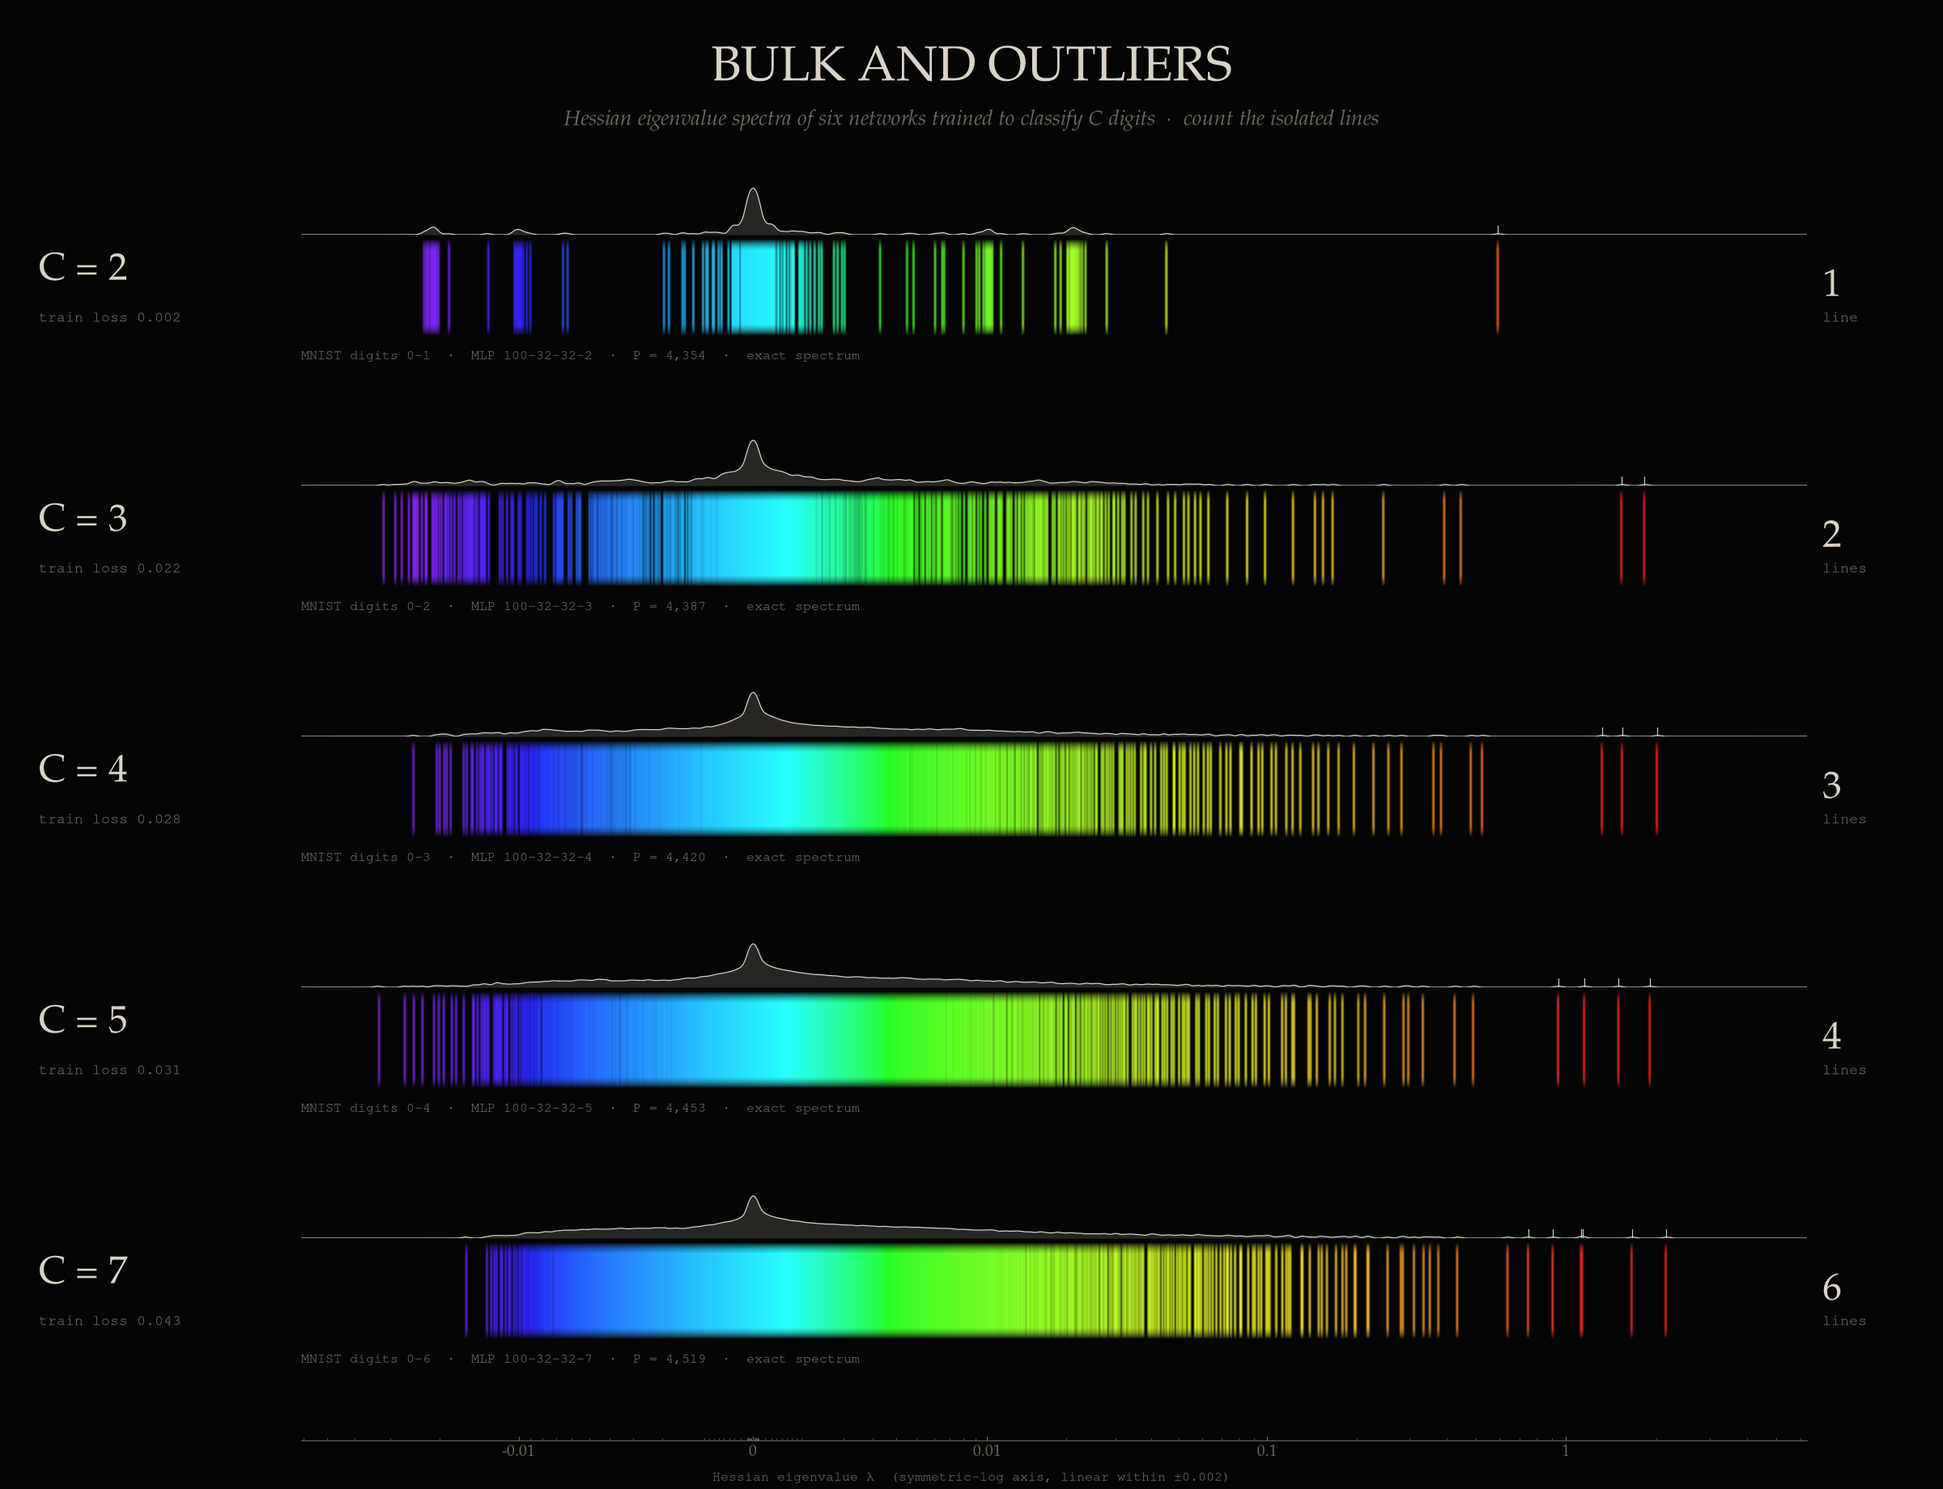
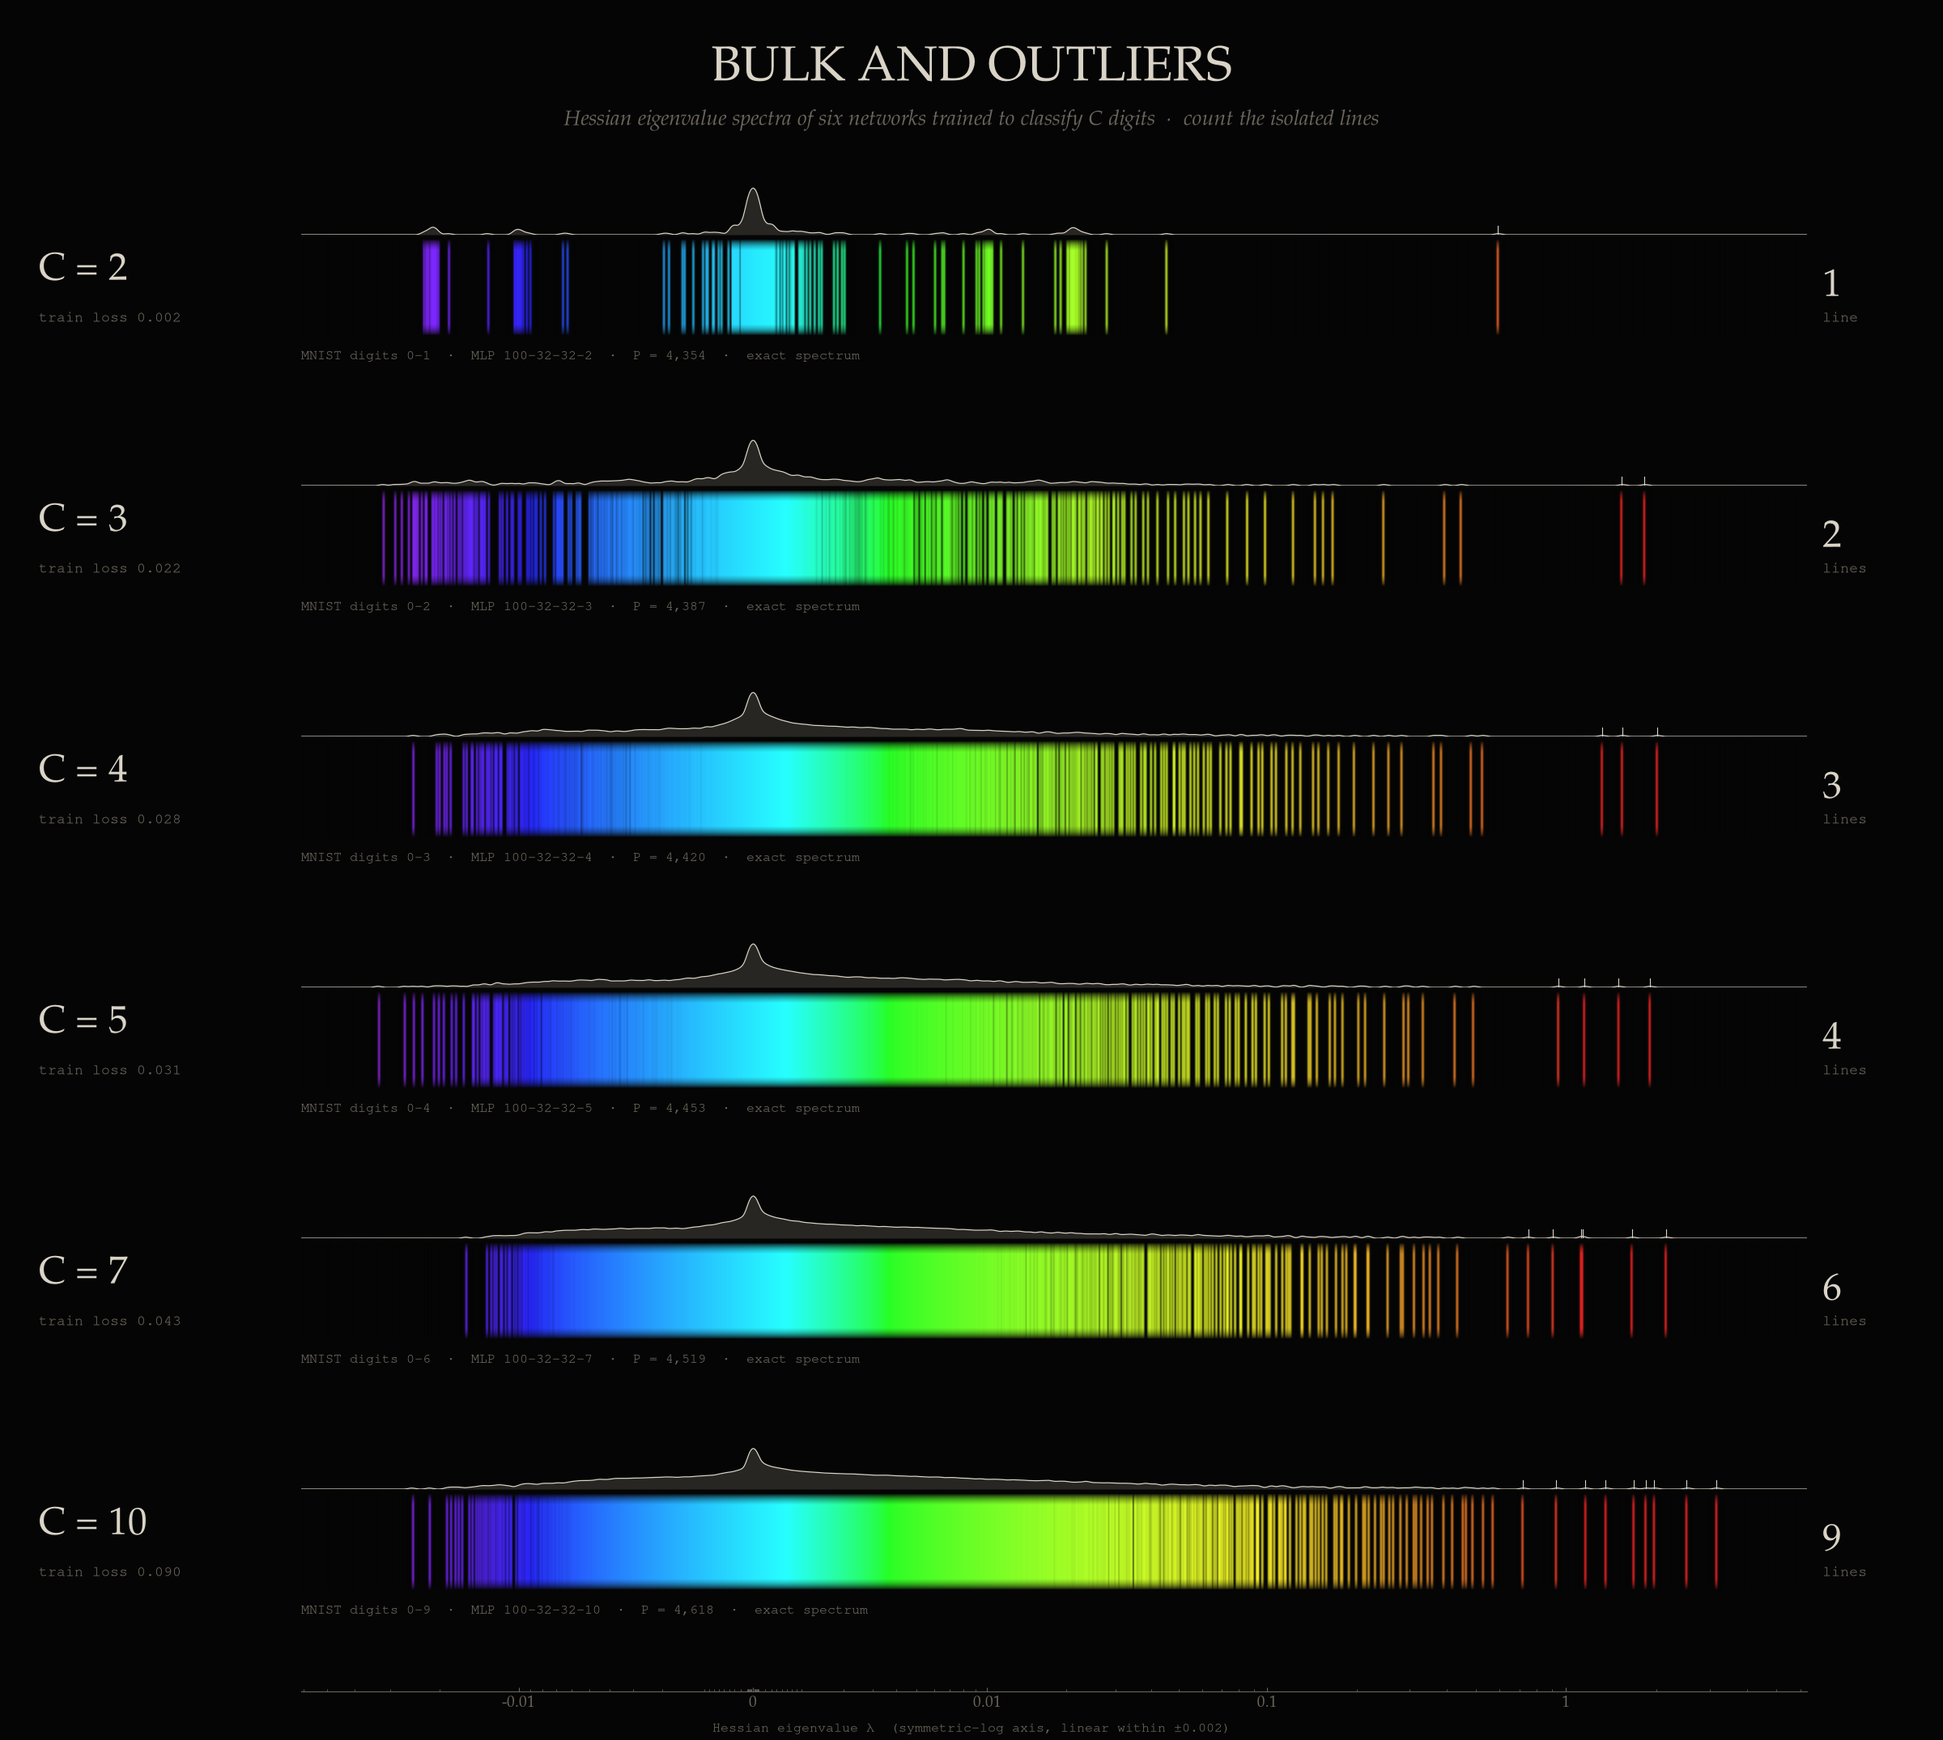
art/hessian-spectrum: C=10 plates (emission/absorption/silver/negative), barcode+gel, class-count ladder, spectrograph stills incl. Spectral split + palettes variants

diff --git a/art/hessian-spectrum/render_film.py b/art/hessian-spectrum/render_film.py
@@ -10,7 +10,7 @@ python render_film.py --stills --film
 import argparse, glob, os, subprocess
 import numpy as np
 from PIL import Image, ImageDraw, ImageFont
-from render_common import slog, exposure_profile, log_density, wavelength_rgb, hexrgb, GAL, CACHE
+from render_common import n_structural, slog, exposure_profile, log_density, wavelength_rgb, hexrgb, GAL, CACHE
 import sys
 sys.path.insert(0, '/home/fzeng/ml/research/art/color-research')
 
@@ -18,6 +18,7 @@ ap = argparse.ArgumentParser()
 ap.add_argument('--run', default='film_mlps_C10_pc200')
 ap.add_argument('--stills', action='store_true')
 ap.add_argument('--film', action='store_true')
+ap.add_argument('--styles', default='hue,silver,magma,paper,split,aurora_ember,cyanotype_vandyke')
 ap.add_argument('--frames', type=int, default=720)
 args = ap.parse_args()
 
@@ -26,7 +27,8 @@ ck = [np.load(f) for f in fs]
 steps = np.array([int(d['step']) for d in ck])
 S = np.stack([np.sort(slog(d['H_eig'])) for d in ck])        # (T, P) sorted symlog eigenvalues
 loss = np.array([float(d['loss']) for d in ck]); acc = np.array([float(d['acc']) for d in ck])
-count = np.array([int(d['count_H'][0]) for d in ck])
+count = np.array([n_structural(d) for d in ck])          # eigvecs in span{d_c}
+gapcount = np.array([int(d['count_H'][0]) for d in ck])
 u = np.log10(steps + 1)
 x0, x1 = np.floor(S.min() * 2) / 2 - 0.2, np.ceil(S.max() * 2) / 2 + 0.2
 print('checkpoints', len(steps), 'x range', x0, x1, 'counts', count)
@@ -46,13 +48,27 @@ def islog_(s, tau=1e-4):
     return np.sign(s) * tau * (10 ** np.abs(s) - 1)
 
 
-def expo_row(s, W, sigma=1.1, d0=0.7):
-    return exposure_profile(islog_(s), x0, x1, W, sigma_px=sigma, d0=d0)[0]
+DREF = 60.0   # reference line density for the log texture term (declared tone curve)
+
+
+def tone(D, d0=0.7):
+    """Declared tone curve: 60% photographic exposure (a lone eigenvalue reaches ~0.46) + 40% log density
+    (keeps texture inside the bulk instead of saturating it)."""
+    return np.clip(0.6 * (1 - np.exp(-D / d0)) + 0.4 * np.log1p(D) / np.log1p(DREF), 0, 1)
+
+
+def dens_row(s, W, sigma=1.1):
+    return exposure_profile(islog_(s), x0, x1, W, sigma_px=sigma)[1]
+
+
+def expo_row(s, W, sigma=1.1):
+    return tone(dens_row(s, W, sigma))
 
 
 def waterfall(W, Hrows):
     uu = np.linspace(u[0], u[-1], Hrows)
-    return np.stack([expo_row(spectrum_at(v)[0], W) for v in uu]), uu
+    D = np.stack([dens_row(spectrum_at(v)[0], W) for v in uu])
+    return tone(D), D, uu
 
 
 def colorize(E, style, W):
@@ -67,27 +83,23 @@ def colorize(E, style, W):
         return cm.magma(E ** 0.9)[..., :3]
     if style == 'paper':
         return hexrgb('#f3eee3') * (1 - E[..., None]) + hexrgb('#1c1a17') * E[..., None]
-    if style == 'split':
-        # Sohl-Dickstein Spectral split at lambda = 0: negative eigenvalues on the purple half, positive on red.
+    if style in ('split', 'aurora_ember', 'cyanotype_vandyke'):
+        # Signed field: sign(lambda) * log line density; per-side rank normalisation (palettes.render_split,
+        # Sohl-Dickstein convention). Empty spectrum = |field| 0 = the dark ends of both halves; the densest bulk
+        # glows pale. Negative eigenvalues take the purple/cool half, positive the red/warm half.
         import palettes as P
-        from matplotlib.colors import LinearSegmentedColormap
-        import matplotlib.cm as cm
-        sgn = np.where(xs < 0, -1.0, 1.0)[None]
-        M = sgn * E
-        # dark seam colours where exposure is low, pale where the plate saturates; no rank-normalisation needed
-        sp = cm.Spectral
-        neg = sp(0.5 + 0.5 * (1 - E)) if False else None
-        t = np.where(M < 0, 1.0 - 0.5 * E, 0.5 * E)          # 0 = deep red end, 1 = purple end, 0.5 = pale centre
-        t = np.where(M < 0, 0.5 + 0.5 * (1 - E), 0.5 - 0.5 * (1 - E))
-        rgb = sp(t)[..., :3]
-        return rgb * (0.15 + 0.85 * E[..., None] ** 0.6)
+        M = np.where(xs[None] < 0, -1.0, 1.0) * np.log1p(D)
+        M = np.where(D < 1e-3, 0.0, M)
+        pairing = 'sd_spectral' if style == 'split' else style
+        rgb = P.render_split(M, pairing, near_boundary='small')
+        return rgb * (0.08 + 0.92 * np.clip(D / 0.05, 0, 1)[..., None])  # fade to black where no eigenvalue falls
     raise ValueError(style)
 
 
 if args.stills:
     W, Hr = 2400, 1600
-    E, uu = waterfall(W, Hr)
-    for style in ['hue', 'silver', 'magma', 'paper', 'split']:
+    E, D, uu = waterfall(W, Hr)
+    for style in args.styles.split(','):
         rgb = colorize(E, style, W)
         img = Image.fromarray((np.clip(rgb, 0, 1) * 255).astype(np.uint8))
         ground = (243, 238, 227) if style == 'paper' else (6, 6, 6)
@@ -126,7 +138,7 @@ if args.film:
     L, W = 120, 1680
     trace_y, strip_y, strip_h = 120, 250, 130
     wf_y, wf_h = 470, 520
-    E, uu = waterfall(W, wf_h)
+    E, D, uu = waterfall(W, wf_h)
     wf = (np.clip(colorize(E, 'hue', W), 0, 1) * 255).astype(np.uint8)
     xs = np.linspace(x0, x1, W)
     hue = wavelength_rgb(np.interp(xs, [x0, x1], [395, 690])) * 0.85 + 0.15
@@ -163,7 +175,7 @@ if args.film:
                 fill=(130, 124, 112), anchor='rt')
         li = int(np.clip(np.searchsorted(u, v), 0, len(u) - 1))
         dr.text((L, FH - 60), f'step {stepv:7.0f}    train loss {np.interp(v, u, loss):.3f}    '
-                f'lines above widest gap: {count[jn]}', font=fM, fill=(200, 194, 182))
+                f'lines (eigvecs in class-mean span): {count[jn]}', font=fM, fill=(200, 194, 182))
         dr.text((L + W, FH - 60), 'time ↓  symlog λ →', font=fM, fill=(130, 124, 112), anchor='rt')
         im.save(os.path.join(tmp, f'f{fi:04d}.png'))
     mp4 = f'{GAL}/spectrograph_film.mp4'

diff --git a/art/hessian-spectrum/render_ladder.py b/art/hessian-spectrum/render_ladder.py
@@ -1,0 +1,89 @@
+"""Class-count ladder: the top of every spectrum as rungs, both measurement routes side by side.
+
+Each column pair = one class count C (left: exact spectrum of the small MLP, right: Lanczos Ritz values of the
+784-128-128 MLP). Each rung = one of the top 2C+6 eigenvalues at its symlog height. Ink of a rung is a measured
+mix: the fraction ov = ||proj of its eigenvector onto span{class-mean gradients}||^2 goes to the red ink, 1-ov to
+the blue ink (two-spot risograph idiom, multiplicative overprint; misregistration is aesthetic).
+
+python render_ladder.py            -> gallery/ladder_riso.png, gallery/ladder_night.png
+"""
+import numpy as np
+import matplotlib
+matplotlib.use('Agg')
+import matplotlib.pyplot as plt
+from render_common import SERIES, slog, islog, load_exact, load_lanczos, n_structural, GAL, set_tau
+
+set_tau(2e-3)
+cols = []
+for C in SERIES:
+    for src, L, key in (('exact', load_exact, 'H_eig'), ('lanczos', load_lanczos, 'H_ritz')):
+        d = L(C)
+        lam = np.sort(d[key])[::-1]
+        n = min(2 * C + 6, len(d['ov_dc']))
+        cols.append(dict(C=C, src=src, lam=lam[:n], ov=np.asarray(d['ov_dc'])[:n], k=n_structural(d)))
+
+STY = {
+    'riso': dict(paper='#f2ede1', red='#ff4f5e', blue='#1f5fbf', ink='#2b2a33', faint='#8c8778', mis=(0.05, 0.004)),
+    'night': dict(paper='#07080c', red='#ff6a4d', blue='#5aa9ff', ink='#e6e1d4', faint='#6f6a60', mis=(0, 0)),
+}
+
+
+def hexrgb(h):
+    return np.array([int(h.lstrip('#')[i:i + 2], 16) / 255 for i in (0, 2, 4)])
+
+
+for name, st in STY.items():
+    plt.rcParams.update({'font.family': 'P052'})
+    fig = plt.figure(figsize=(24, 15), dpi=100, facecolor=st['paper'])
+    ax = fig.add_axes([0.08, 0.19, 0.84, 0.66], facecolor=st['paper'])
+    ylo, yhi = slog(0.03), slog(12)
+    xpos = {}
+    for i, c in enumerate(cols):
+        gx = SERIES.index(c['C']) * 3.0 + (0 if c['src'] == 'exact' else 1.05)
+        xpos.setdefault(c['C'], []).append(gx)
+        for j, (l, ov) in enumerate(zip(c['lam'], c['ov'])):
+            if l <= 0.03:
+                continue
+            y = slog(l)
+            out = j < c['k']
+            w = 0.9 if out else 0.55
+            lw = 5.5 if out else 2.2
+            x_a, x_b = gx - w / 2, gx + w / 2
+            if name == 'riso':
+                # two inks, each at its coverage, multiply-overprinted
+                dx, dy = st['mis']
+                ax.plot([x_a, x_b], [y, y], color=st['blue'], lw=lw, alpha=float(np.clip(1 - ov, 0.08, 1)) * 0.85,
+                        solid_capstyle='butt')
+                ax.plot([x_a + dx, x_b + dx], [y + dy, y + dy], color=st['red'],
+                        lw=lw, alpha=float(np.clip(ov, 0.0, 1)) * 0.9, solid_capstyle='butt')
+            else:
+                col = ov * hexrgb(st['red']) + (1 - ov) * hexrgb(st['blue'])
+                ax.plot([x_a, x_b], [y, y], color=col, lw=lw, alpha=0.95 if out else 0.55, solid_capstyle='butt')
+    for C in SERIES:
+        xm = np.mean(xpos[C])
+        k_ex = [c['k'] for c in cols if c['C'] == C]
+        ax.text(xm, slog(0.021), f'C = {C}', ha='center', va='top', fontsize=30, color=st['ink'])
+        ax.text(xm, slog(0.0125), f'{k_ex[0]}  ·  {k_ex[1]}', ha='center', va='top', fontsize=20, color=st['faint'],
+                family='Nimbus Mono PS')
+        for gx, lab in zip(xpos[C], ('exact', 'Lanczos')):
+            ax.text(gx, slog(0.035), lab, ha='center', va='top', fontsize=11, color=st['faint'],
+                    family='Nimbus Mono PS', rotation=0)
+    tk = [0.03, 0.1, 0.3, 1, 3, 10]
+    ax.set_yticks(slog(np.array(tk)))
+    ax.set_yticklabels([f'{t:g}' for t in tk], fontsize=16, color=st['ink'], family='Nimbus Mono PS')
+    ax.tick_params(axis='y', colors=st['faint'], length=8)
+    ax.set_xticks([])
+    for sp in ['top', 'right', 'bottom']:
+        ax.spines[sp].set_visible(False)
+    ax.spines['left'].set_color(st['faint'])
+    ax.set_xlim(-1.2, 3.0 * len(SERIES) - 0.8); ax.set_ylim(ylo - 0.05, yhi)
+    ax.set_ylabel('Hessian eigenvalue λ  (symlog, τ = 2e-3)', fontsize=15, color=st['faint'], family='Nimbus Mono PS')
+    fig.text(0.08, 0.95, 'The class-count ladder', fontsize=46, color=st['ink'], va='top')
+    fig.text(0.08, 0.895, 'Top Hessian eigenvalues of MNIST MLPs trained on C digit classes.  Wide rungs: eigenvectors '
+             'lying in the span of the class-mean gradients.  There are C − 1 of them, not C.',
+             fontsize=18, color=st['faint'], va='top', style='italic')
+    fig.text(0.08, 0.02, 'rung ink = measured mix: red ∝ |proj of eigenvector v onto span{d_c}|², blue ∝ the rest;  numbers under C: wide rungs '
+             '(exact · Lanczos);  top 2C+6 eigenvalues above 0.03 shown', fontsize=13, color=st['faint'],
+             family='Nimbus Mono PS')
+    out = f'{GAL}/ladder_{name}.png'
+    fig.savefig(out, dpi=100, facecolor=st['paper']); plt.close(fig); print('wrote', out)

diff --git a/art/hessian-spectrum/render_barcode.py b/art/hessian-spectrum/render_barcode.py
@@ -10,7 +10,7 @@ import numpy as np
 import matplotlib
 matplotlib.use('Agg')
 import matplotlib.pyplot as plt
-from render_common import SERIES, slog, load_exact, exposure_profile, hexrgb, GAL
+from render_common import SERIES, slog, load_exact, exposure_profile, hexrgb, GAL, n_structural
 
 specs = [load_exact(C) for C in SERIES]
 # barcodes show only the positive side above lambda >= 1e-4 (bulk block starts there); declared crop
@@ -26,7 +26,7 @@ def barcode(style):
     fig.text(0.5, 1 - 60 / Ht, 'Hessian spectra, barcoded', ha='center', va='top', fontsize=34, color=ink,
              family='P052')
     for i, s in enumerate(specs):
-        C, k = int(s['C']), int(s['count_H'][0])
+        C, k = int(s['C']), n_structural(s)
         y0 = 1 - (160 + (i + 1) * rowh) / Ht
         ax = fig.add_axes([0.08, y0 + 70 / Ht, 0.84, (rowh - 110) / Ht], facecolor=paper)
         lam = s['H_eig']; lam = lam[slog(lam) > x0]
@@ -35,6 +35,9 @@ def barcode(style):
         rgb = hexrgb(paper) * (1 - bars[None, :, None]) + hexrgb(ink) * bars[None, :, None]
         ax.imshow(np.repeat(rgb, 2, 0), extent=(x0, x1, 0, 1), aspect='auto', interpolation='nearest')
         ax.set_xlim(x0, x1); ax.axis('off')
+        # outliers (eigenvectors in span of class-mean gradients) drop below the code like EAN guard bars
+        for l in np.sort(s['H_eig'])[::-1][:k]:
+            ax.plot([slog(l)] * 2, [-0.12, 0.02], color=ink, lw=1.6, clip_on=False, solid_capstyle='butt')
         # guard bars at both ends, EAN-style
         for gx in (x0 + 0.01, x0 + 0.03, x1 - 0.03, x1 - 0.01):
             ax.plot([gx, gx], [-0.12, 1], color=ink, lw=2.2, clip_on=False)
@@ -43,7 +46,7 @@ def barcode(style):
                  family='Nimbus Mono PS')
         fig.text(0.93, y0 + 40 / Ht, f'C={C} · {k} outlier{"s" if k != 1 else ""}', ha='right', va='center',
                  fontsize=12, color=ink, family='Nimbus Mono PS', alpha=0.7)
-    fig.text(0.08, 30 / Ht, f'bars = exact eigenvalues λ ≥ 3e-4, symlog position (τ=1e-4); digits: C, outlier count, P',
+    fig.text(0.08, 30 / Ht, f'bars = exact eigenvalues λ ≥ 3e-4 (long bars: outliers), symlog position (τ=1e-4); digits: C, outlier count (eigvecs in span of class-mean gradients), P',
              fontsize=12, color=ink, family='Nimbus Mono PS', alpha=0.7)
     out = f'{GAL}/barcode_{style}.png'
     fig.savefig(out, dpi=100, facecolor=paper); plt.close(fig); print('wrote', out)
@@ -63,7 +66,8 @@ def gel():
     lo, hi = slog(-2e-2), max(slog(s['H_eig'].max()) for s in specs) + 0.2
     band = hexrgb('#ffb347'); core = hexrgb('#fff6e0')
     for i, s in enumerate(specs):
-        expo, _ = exposure_profile(s['H_eig'], lo, hi, Hpx, sigma_px=2.2, d0=0.9)
+        _, dn = exposure_profile(s['H_eig'], lo, hi, Hpx, sigma_px=1.6)
+        expo = np.clip(0.55 * (1 - np.exp(-dn / 0.7)) + 0.45 * np.log1p(dn) / np.log1p(40.0), 0, 1)
         expo = expo[::-1]                     # large eigenvalues at the top of the gel
         xL = 300 + gap + i * (lanew + gap)
         a = expo[:, None] * prof[None, :]
@@ -71,17 +75,17 @@ def gel():
         img[:, xL:xL + lanew] = np.clip(img[:, xL:xL + lanew] * (1 - a[..., None]) + col, 0, 1)
         fig.text((xL + lanew / 2) / Wpx, (250 + Hpx + 40) / Ht, f'C={int(s["C"])}', ha='center', fontsize=22,
                  color='#d7deef', family='Nimbus Sans')
-        fig.text((xL + lanew / 2) / Wpx, 200 / Ht, f'{int(s["count_H"][0])}', ha='center', fontsize=26,
+        fig.text((xL + lanew / 2) / Wpx, 200 / Ht, f'{n_structural(s)}', ha='center', fontsize=26,
                  color='#ffb347', family='Nimbus Sans')
     ax.imshow(img, aspect='auto', extent=(0, Wpx, lo, hi), interpolation='bilinear')
     ax.set_xlim(0, Wpx); ax.set_ylim(lo, hi)
-    for t in [-1e-2, 0, 1e-3, 1e-2, 1e-1, 1, 10]:
+    for t in [-1e-2, -1e-3, 0, 1e-3, 1e-2, 1e-1, 1, 10]:
         if lo < slog(t) < hi:
             ax.plot([230, 280], [slog(t)] * 2, color='#8a96b8', lw=1.5)
             ax.text(215, slog(t), '0' if t == 0 else f'{t:g}', ha='right', va='center', color='#8a96b8',
                     fontsize=16, family='Nimbus Sans')
     ax.axis('off')
-    fig.text(0.5, 110 / Ht, 'lanes: exact Hessian spectra, band = eigenvalue (symlog); number = bands above the widest gap',
+    fig.text(0.5, 110 / Ht, 'lanes: exact Hessian spectra, band = eigenvalue (symlog); number = eigenvectors in span of class-mean gradients',
              ha='center', fontsize=13, color='#8a96b8', family='Nimbus Sans')
     fig.savefig(f'{GAL}/gel.png', dpi=100, facecolor='#05070f'); plt.close(fig); print('wrote gel')
 
